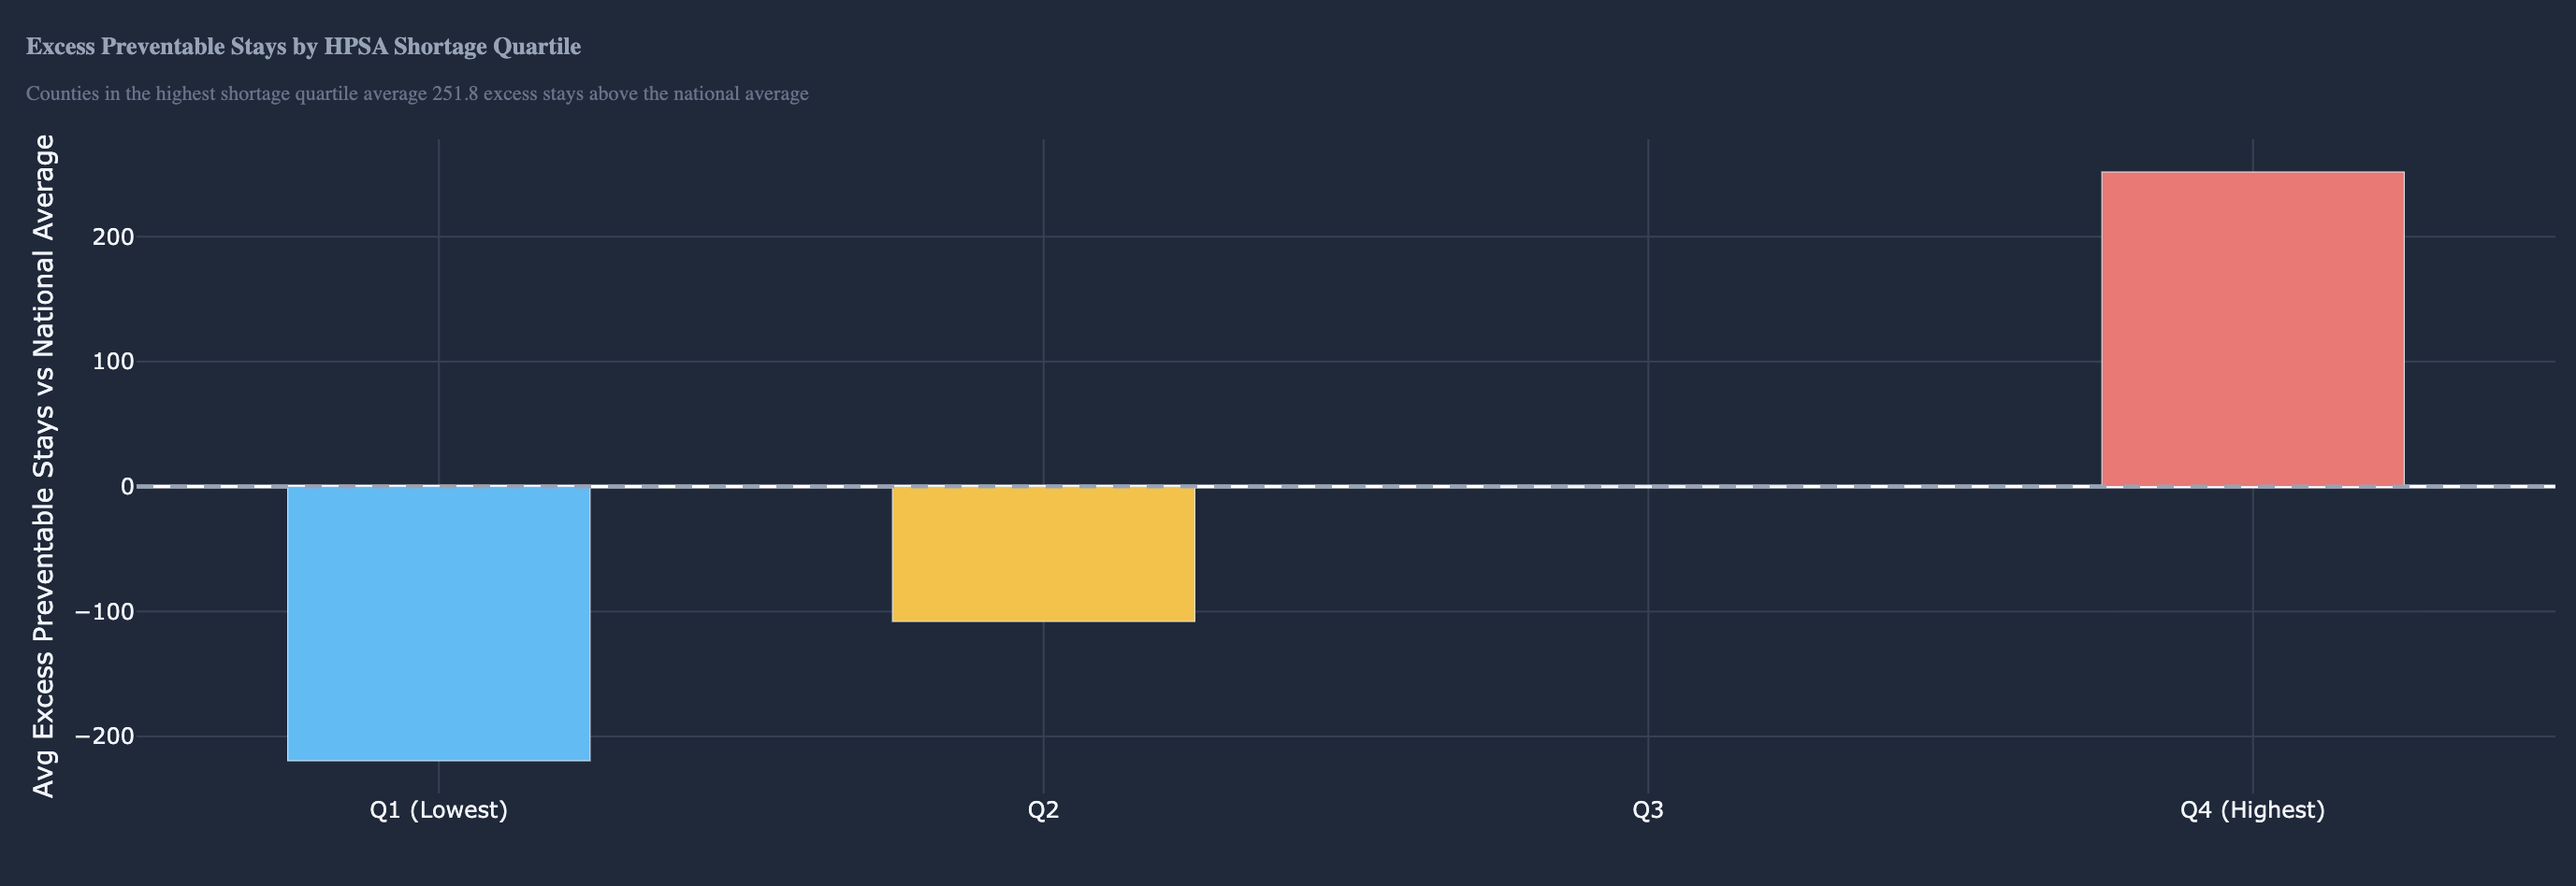
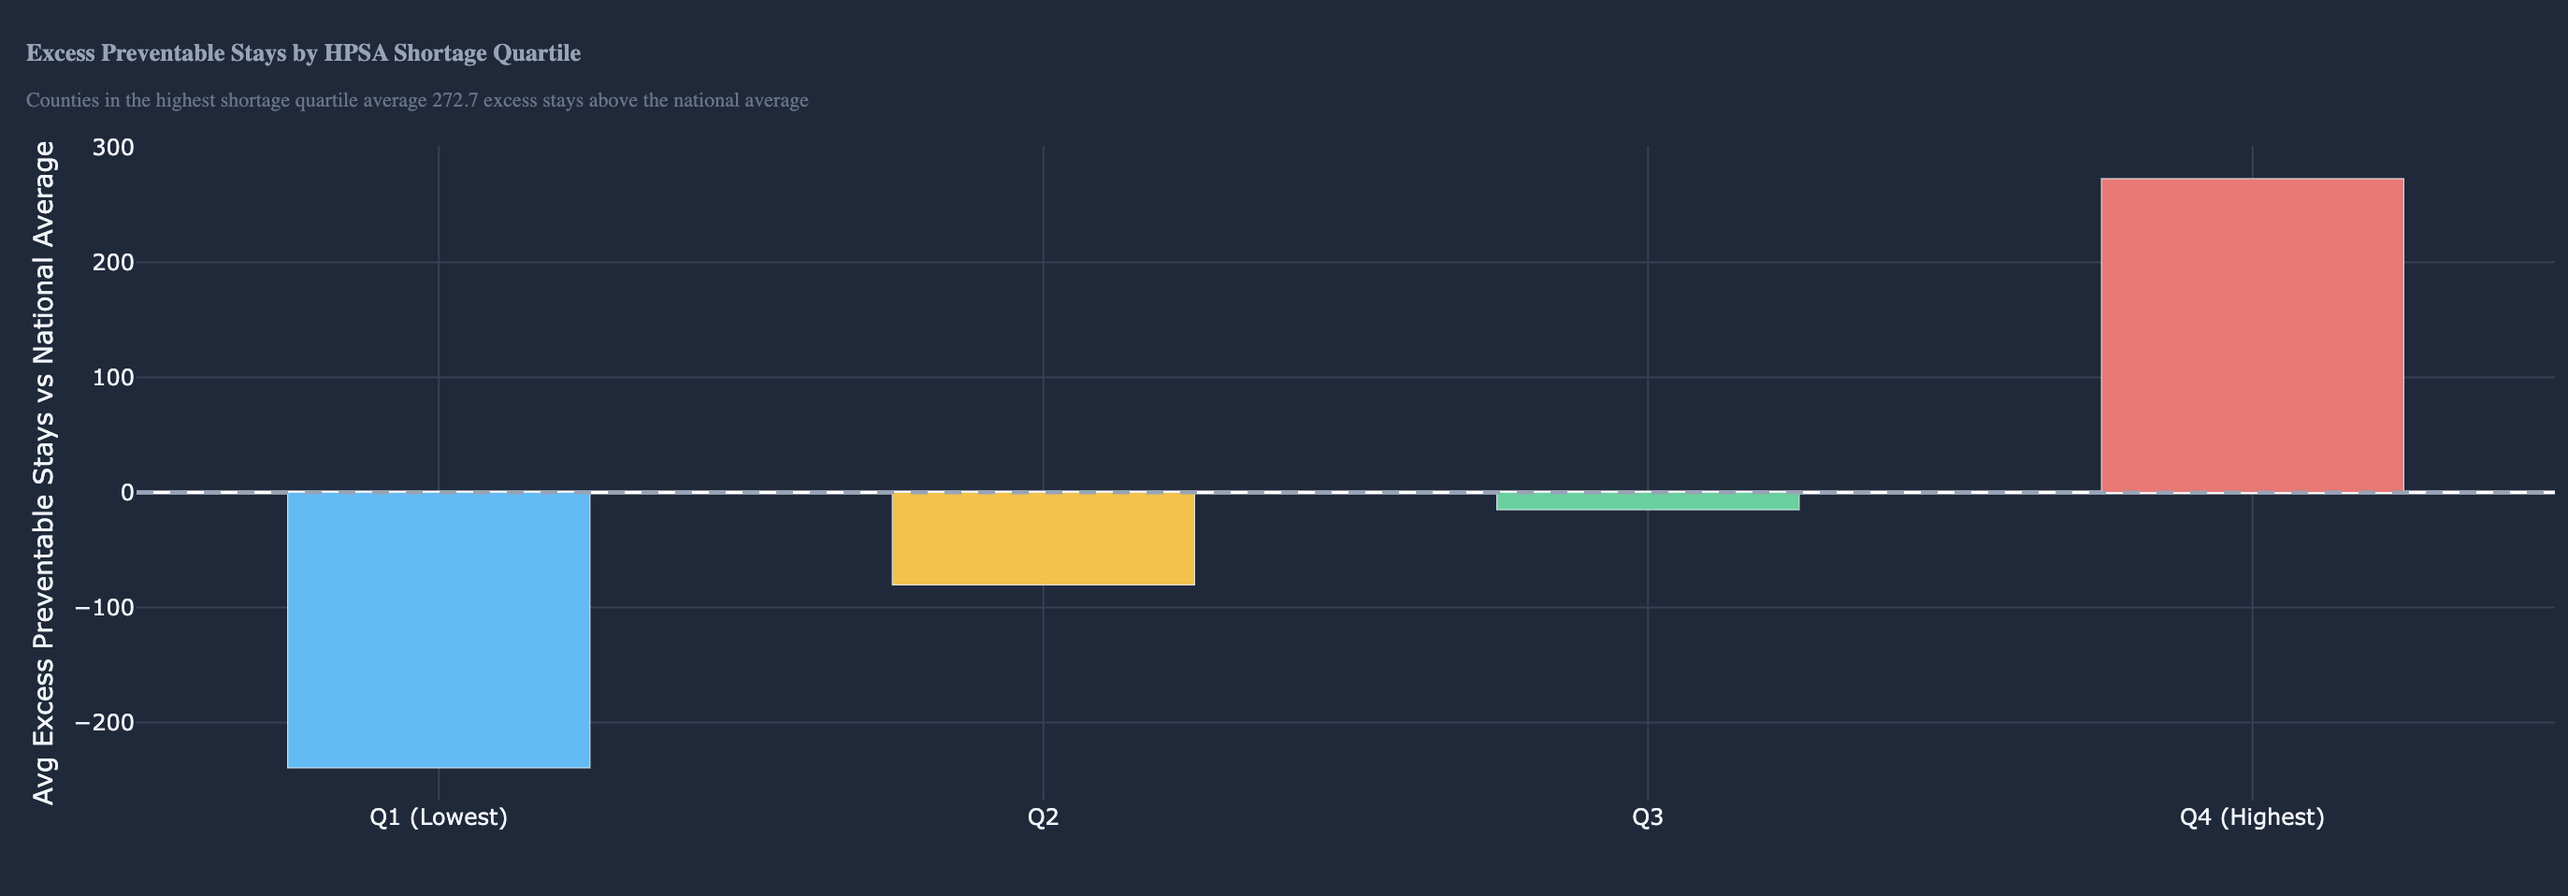
Small change from 12 to 11 chronic conditions in README, update assets/images

diff --git a/README.md b/README.md
@@ -59,7 +59,7 @@ before development and built using Plotly Dash with a custom dark theme color pa
 
 ## Key Insights
 
-- **HPSA counties show consistently higher chronic disease burden** across all 12
+- **HPSA counties show consistently higher chronic disease burden** across all 11
   conditions analyzed, with hypertension showing the largest gap (+2.29 percentage points higher vs non-HPSA).
 
 - **FQHCs alone are insufficient to offset hospitalization burden** they may be treating the sickest counties but can't fully compensate for systemic PCP gaps.
